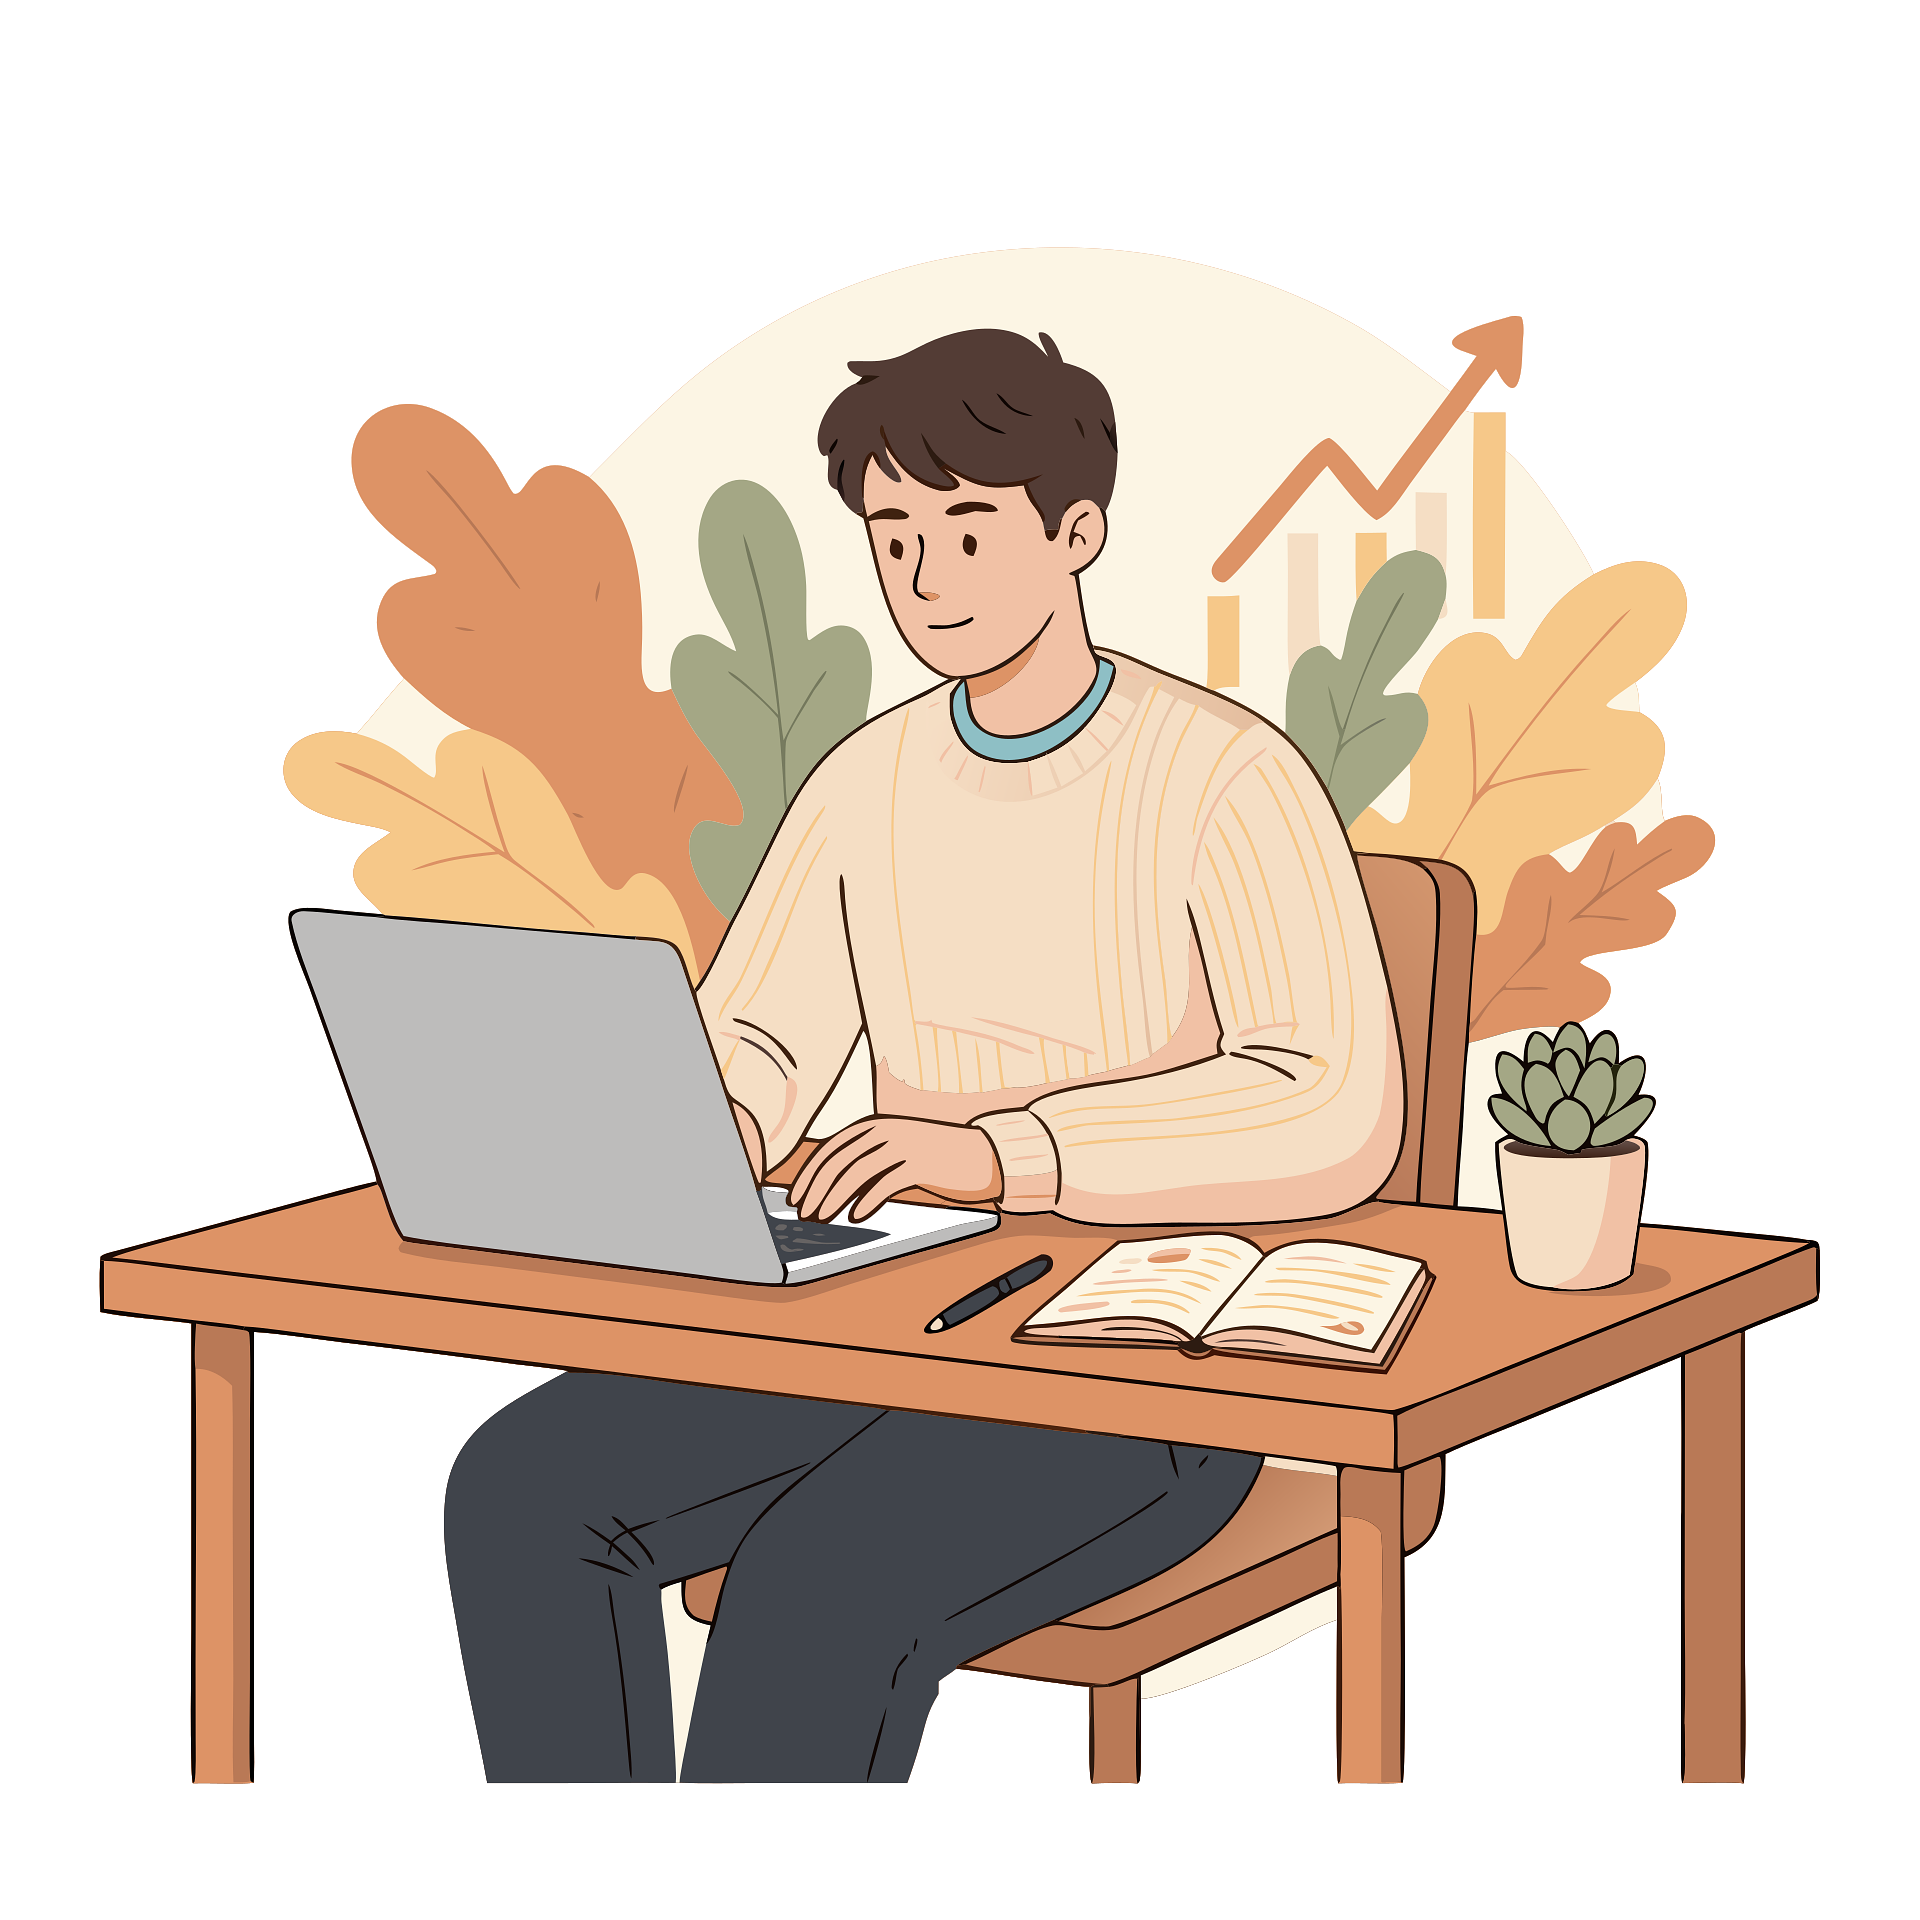
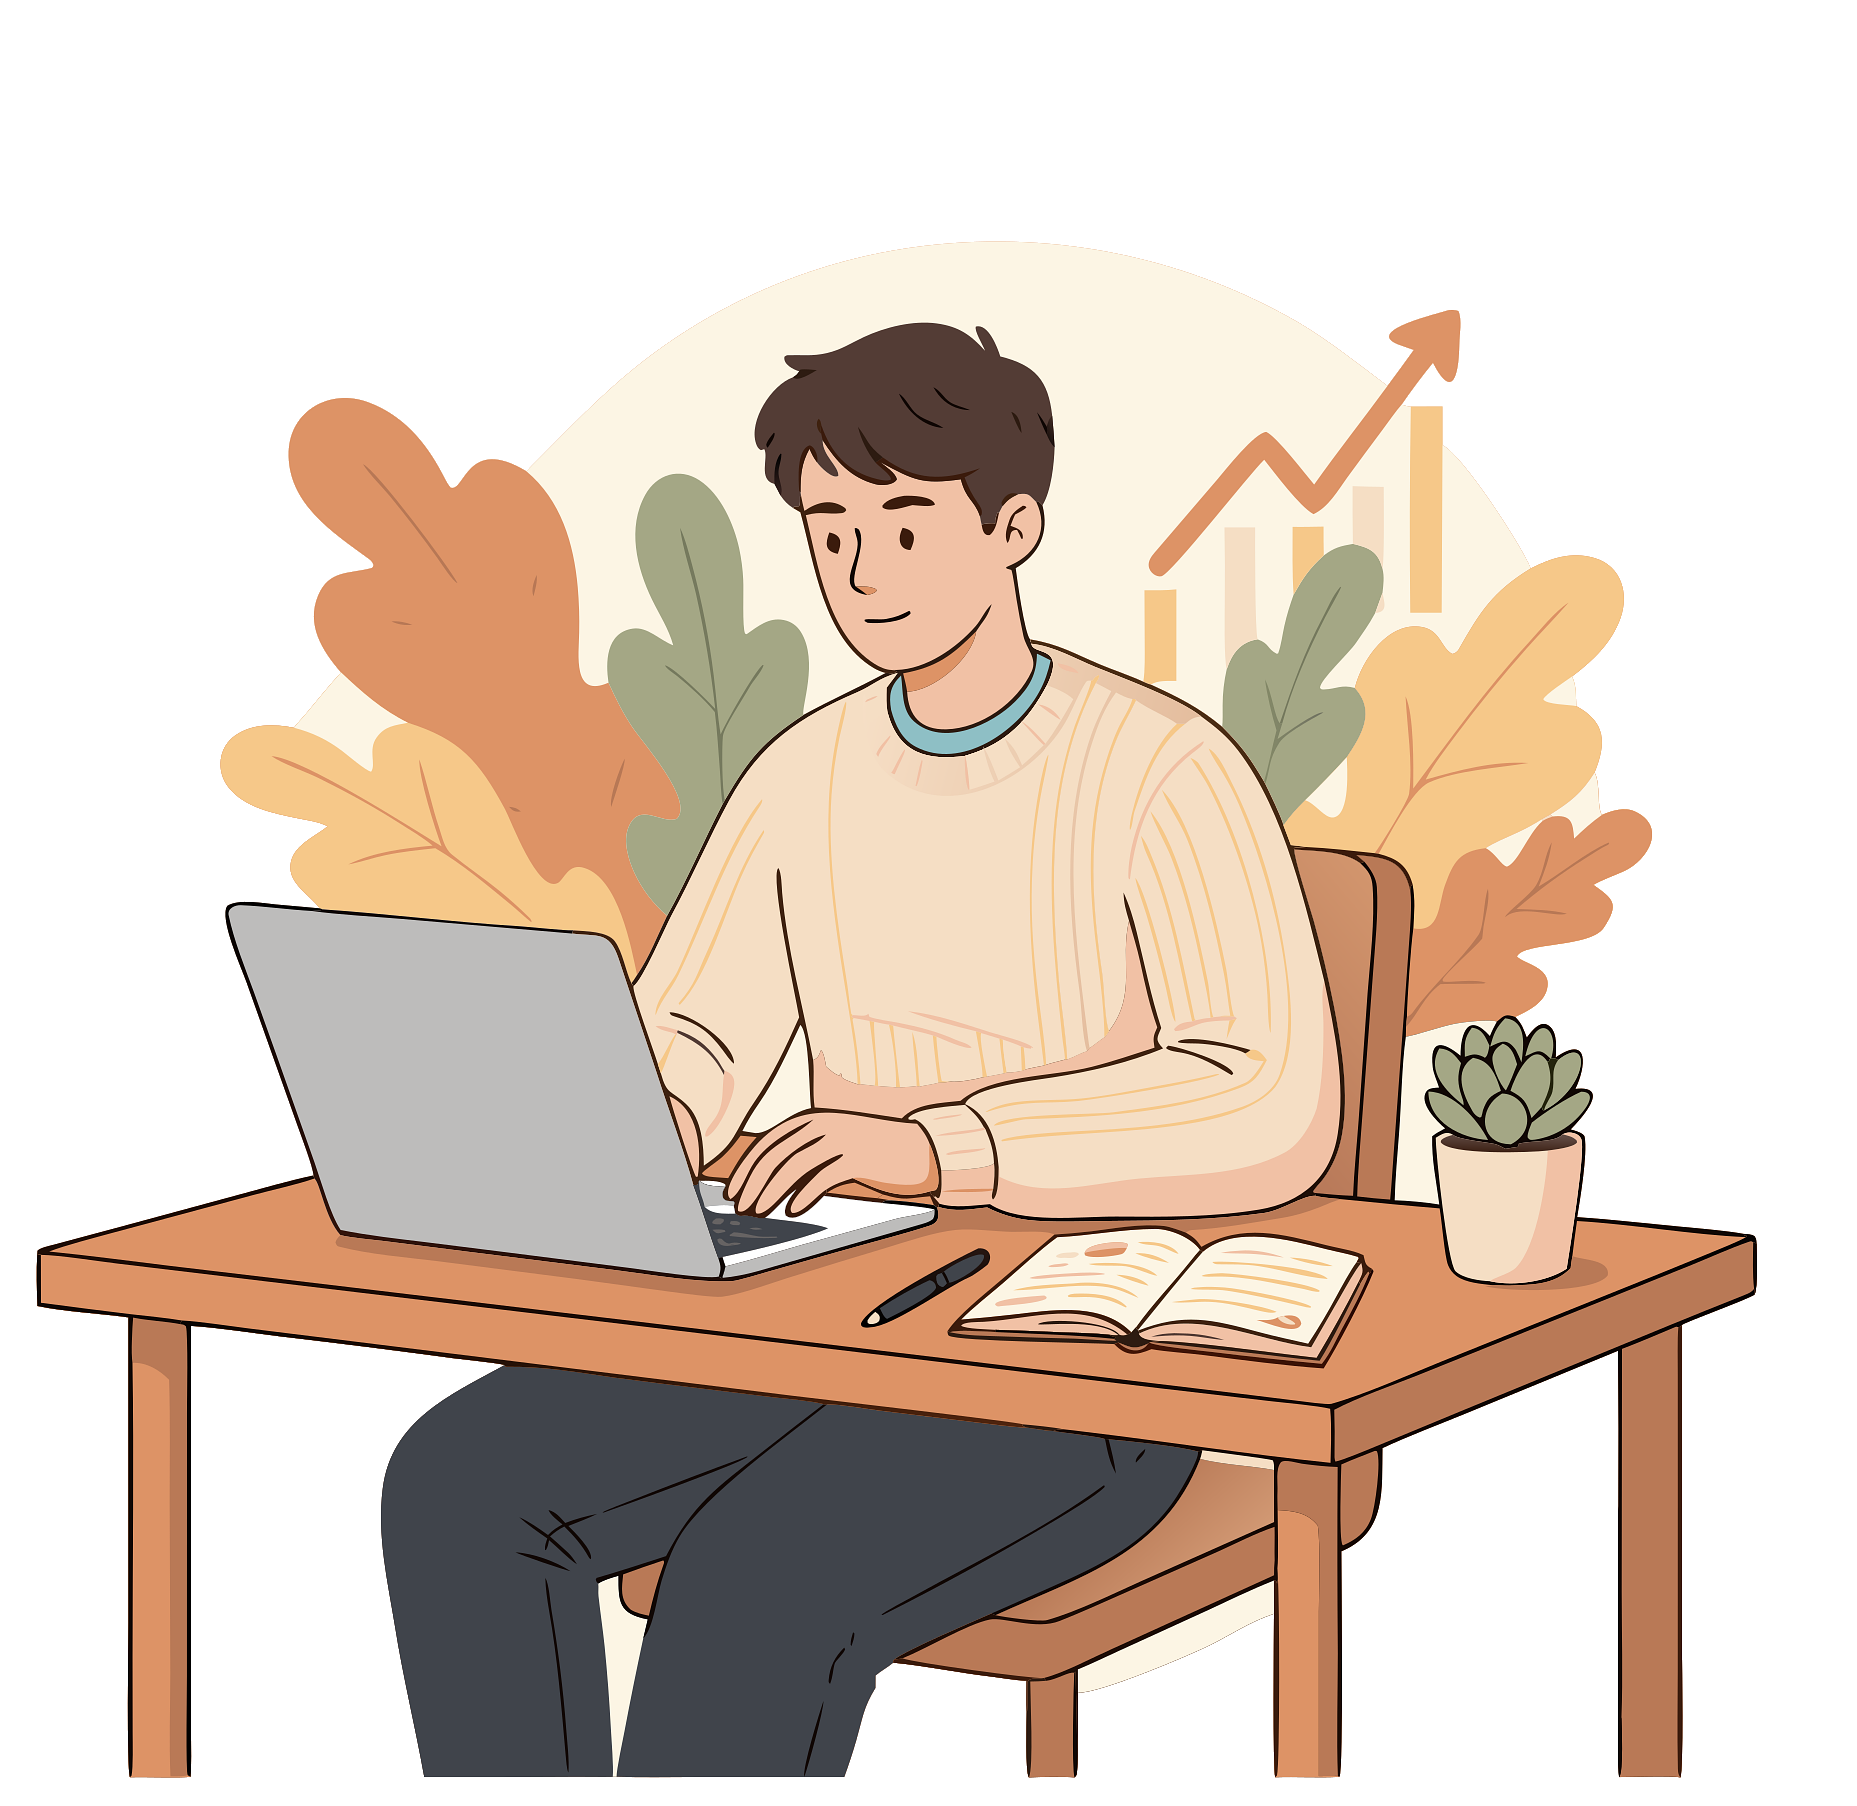
Style: update index header and first two section

Changed region(s): [[0.0, 0.124, 0.9682, 0.9922], [0.3748, 0.155, 0.406, 0.186], [0.2811, 0.8372, 0.3123, 0.8682]]

diff --git a/index.html b/index.html
@@ -8,53 +8,53 @@
 </head>
 <body>
     <div class="header">
-        <div> 
-            <div class="logo">Flux Track</div>
+        <div class="left-side"> 
+            <div class="logo"><a href="" class="logo"><span class="flux"> Flux</span> Track</a></div>
             <a href="" class="link">Pricing</a>
         </div>
-        <div>
+        <div class="right-side">
             <a href="" class="link">Log in</a>
-            <button class="try-for-free">Try for free</button>
+            <a href="" class="try-for-free">Try for free</a>
         </div>
     </div>
 
     <div class="container-content-one">
-        <div>
-            <h1>Where teams and time tracking data meet</h1> 
+        <div class="content-one-item">
+            <h1 class="h-1">Where <span class="h-1-span">teams</span> and time tracking <span class="h-1-span">data</span> meet</h1> 
             <p>Time tracking software that builds custom reports from your team's time data to maximize productivity and revenue.</p>
-            <button class="try-for-free">Try for free</button>
+            <a href="" class="try-for-free-1">Try for free</a>
         </div>
-        <div> 
-            <img src="./img/image-1.jpg" alt="A team is analyzing/discussing/working, and some data are showing on screen." height="400px">
+        <div class="content-one-item"> 
+            <img src="./img/sayyam-abbasi-59thT6oym_o-unsplash.png" alt="A team is analyzing/discussing/working, and some data are showing on screen." id="content-img">
         </div>
     </div>
-    <div>
-        <h2>The time tracker that achieves 100% user adoption in your team</h2>
+    <div class="adaptation">
+        <h2 class="h-adaptation">The time tracker that achieves <span class="percent">100%</span> user adoption in your team</h2>
         <p>Time tracking is a chore, which is why we built Flux Track differently.</p>
     </div>
     <div class="information">
-        <div>
-            <p>100%</p> time tracking adaptation for your team
-            <img src="./img/mohamed_hassan-office-9705279.svg" alt="" height="200px">
+        <div class="information-item item-1">
+            <div><p>100%</p> time tracking adaptation for your team</div>
+            <div><img src="./img/mohamed_hassan-office-9705279.svg" alt=""> </div>
         </div>
-        <div>
-            <p>Growth</p> while maintaining work-life balance 
-            <img src="./img/tanrica-working-illustration-10066175_1920.png" alt="" height="300px">
+        <div class="information-item item-2">
+            <div> <p>Growth</p> while maintaining work-life balance  </div>
+            <div><img src="./img/tanrica-working-illustration-10066175_1920.png" alt=""> </div>
         </div>
-        <div>
-            <p>Save time</p> with Flux Track's user-friendly interface
-            <img src="./img/megan_rexazin_conde-pencil-5459686_1920.png" alt="" height="200px">
-        </div>
-        <div>
+        <div class="information-item item-3">
             <p>Be accurate</p> on billing & payroll. Prevent billing and payroll errors
-            <img src="./img/irvan-maulana-JG5y2W1pqxM-unsplash.jpg" alt="" height="200px">
+            <img src="./img/irvan-maulana-JG5y2W1pqxM-unsplash.jpg" alt="">
+        </div>
+        <div class="information-item item-4">
+            <div> <p>Save time</p> with Flux Track's user-friendly interface</div>
+            <img src="./img/megan_rexazin_conde-pencil-5459686_1920.png" alt="">
         </div>
     </div>
     <div class="quote">
         “Time is what we want most, but what we use worst.” — William Penn
     </div>
     <div class="call-to-action">
-    Start making, less motion more progress with Flux Track. <button class="try-for-free">Try for free</button>
+    Start making <span class="motion-progress">less motion </span> and <span> more progress </span> with Flux Track. <a href="" class="try-for-free">Try for free</a>
     </div>
     <div class="footer">Copyright © Flux Track 2026 </div>
 </body>

diff --git a/style.css b/style.css
@@ -1,0 +1,165 @@
+body {
+    margin: 0;
+    padding: 0;
+    display: flex;
+    flex-direction: column;
+    font-size: 20px;
+    font-family: "Verdana", "Trebuchet MS", "Arial", sans-serif;
+}
+
+.header {
+    height: 40px;
+    display: flex;
+    background-color: #595a9b;
+    color: white;
+    justify-content: space-between;
+    align-items: center;
+    padding: 15px 30px;
+}
+
+* {    margin: 0;
+    padding: 0
+}
+
+.logo{
+    font-size: 33px;
+    text-decoration: none;
+    color: #f68eff;
+}
+.flux {
+    font-weight: bold;
+}
+.link {
+    color: white;
+    text-decoration: none;   
+}
+.link:hover {
+    color: #f68eff;
+}
+
+.left-side, .right-side {
+    display: flex;
+    gap: 20px;
+    align-items: center;
+}
+
+.try-for-free {
+    border-radius: 25px;
+    padding: 10px 20px;
+    font-size: 16px;
+    font-weight: 600;
+    text-decoration: none;
+    color: white;
+    background-color: #3abbee ;
+}
+.try-for-free:hover{
+    background-color: #3aacda;
+}
+
+.try-for-free-1 {
+    border-radius: 25px;
+    padding: 10px 20px;
+    font-size: 16px;
+    font-weight: 600;
+    background-color: #9d5ad3;
+    color: whitesmoke;
+    text-decoration: none;
+}
+.try-for-free-1:hover {
+    background-color: rgb(131, 89, 165);
+}
+
+.h-1 {
+    font-size: 55px;
+}
+
+.h-1-span {
+    color: 		#f76aeb
+}
+
+.container-content-one {
+    background-color: #595a9b;
+    color: white;
+    display: flex;
+    flex-direction: column;
+    justify-content: center;
+    text-align: center;
+    align-items: center;;
+    padding: 30px;
+    gap: 20px;
+}
+
+
+.content-one-item {
+    display: flex;
+    flex-wrap: wrap;
+    max-width: 600px;
+    justify-content: center;
+    gap: 20px;
+}
+#content-img{
+    height: 370px;
+    width: auto;
+}
+
+.adaptation {
+    display: flex;
+    flex-direction: column;
+    justify-content: center;
+    margin: 40px;
+    align-items: center;
+    max-width: 700px;
+    align-self: center;
+    text-align: center;
+    gap: 10px;
+}
+
+.percent {
+    color: #f76aeb;
+}
+
+.h-adaptation {
+    font-size: 40px;
+}
+
+.information {
+    display: flex;
+    margin: 30px;
+    justify-content: space-evenly;
+    text-align: center;
+    flex-wrap: wrap;
+}
+
+.information-item {
+    width: 300px;
+    display: flex;
+    justify-content: center;
+    align-items: center;
+    text-align: center;
+    flex-direction: column;
+    margin: 30px;
+    padding: 30px;
+}
+
+img{
+    height: 210px;
+    width: 280px;
+    object-fit: cover;
+}
+
+.item-1 {
+    background-color: #fcbede;
+}
+
+.item-2 {
+    background-color: #CFECF3;
+}
+
+.item-3 {
+    background-color: rgb(252, 182, 157); 
+}
+
+.item-4 {
+    background-color:#DAF9DE
+
+}
